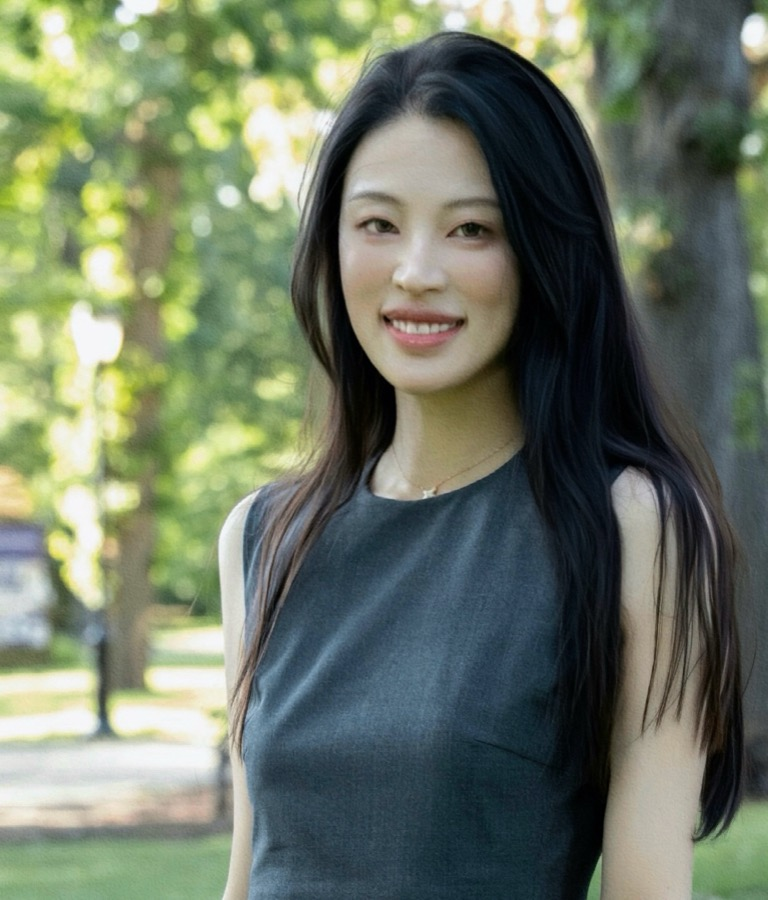
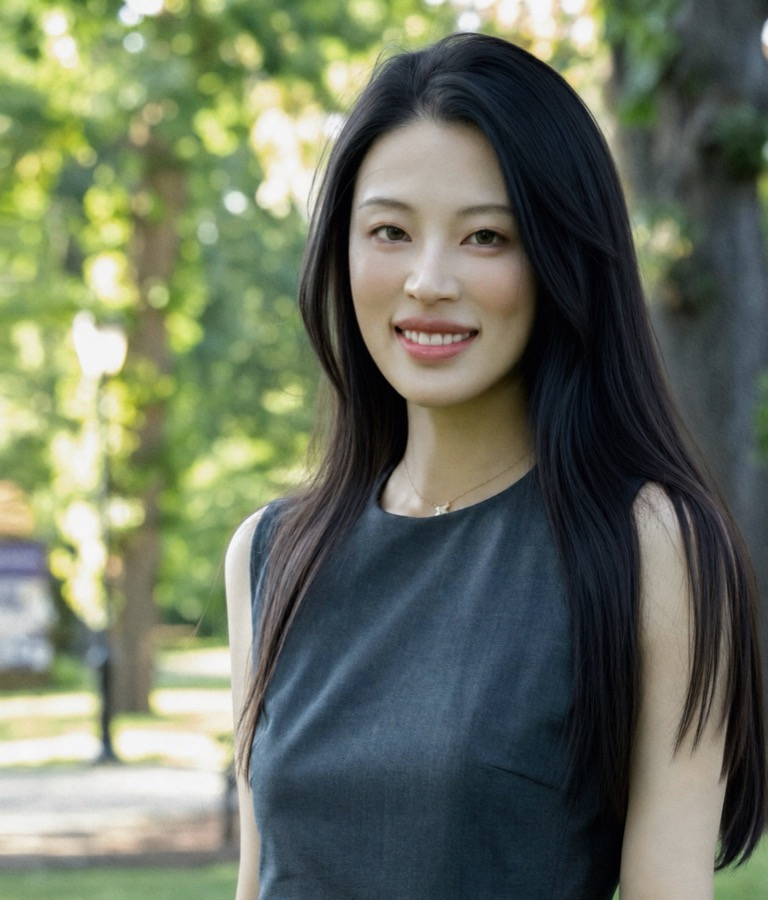
Home: update portrait photo (Shinan_pic)

diff --git a/index.html b/index.html
@@ -99,7 +99,7 @@
 
       <div class="hero-portrait">
         <div class="frame" aria-label="Shinan Wang">
-          <img src="assets/portrait.jpg?v=8" alt="Shinan Wang">
+          <img src="assets/portrait.jpg?v=9" alt="Shinan Wang">
         </div>
       </div>
     </section>
